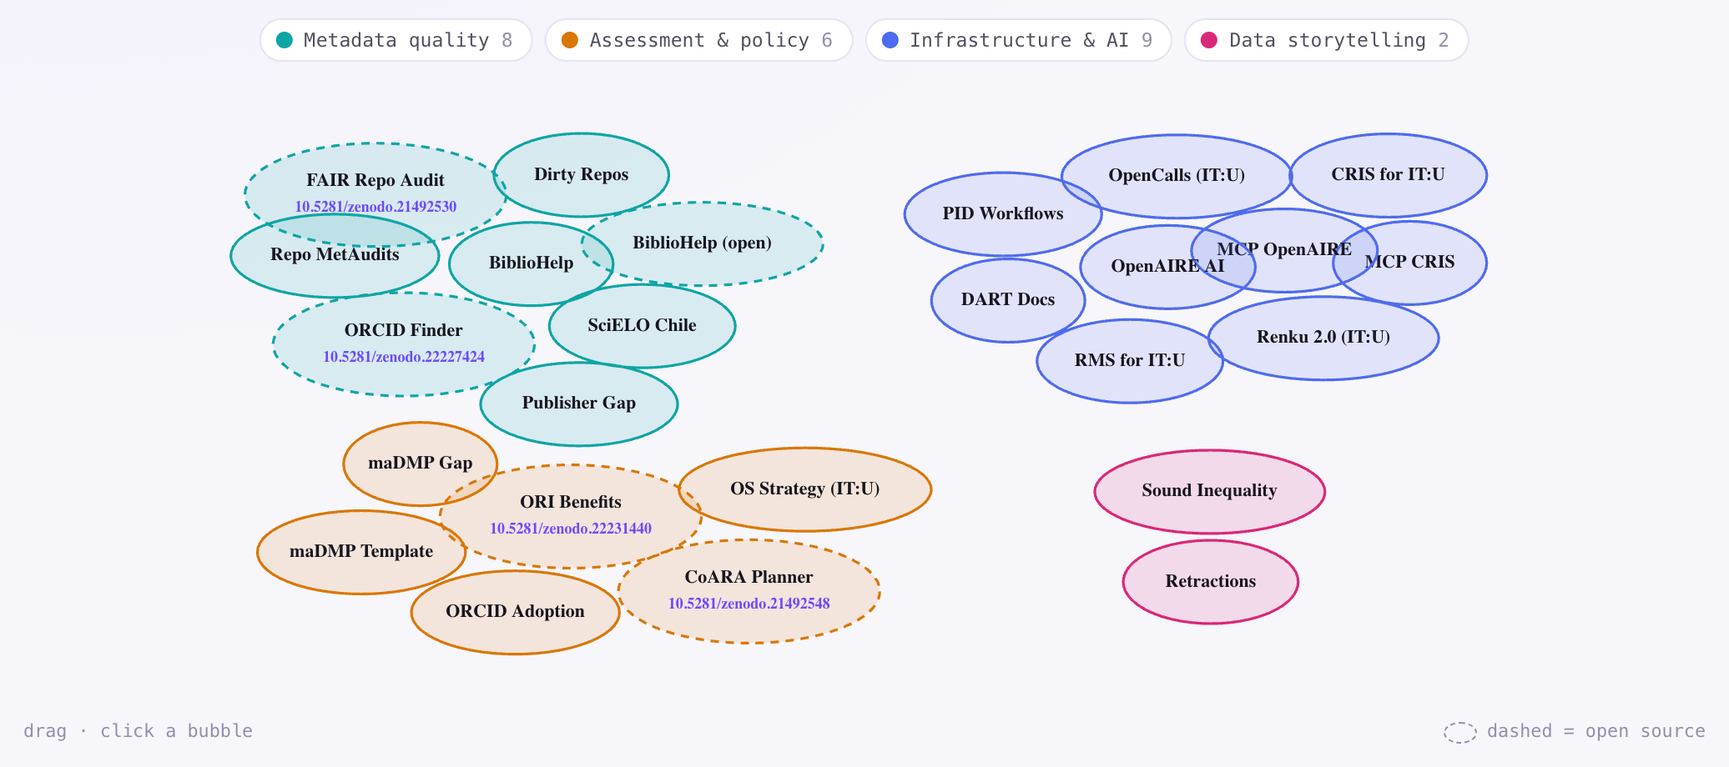
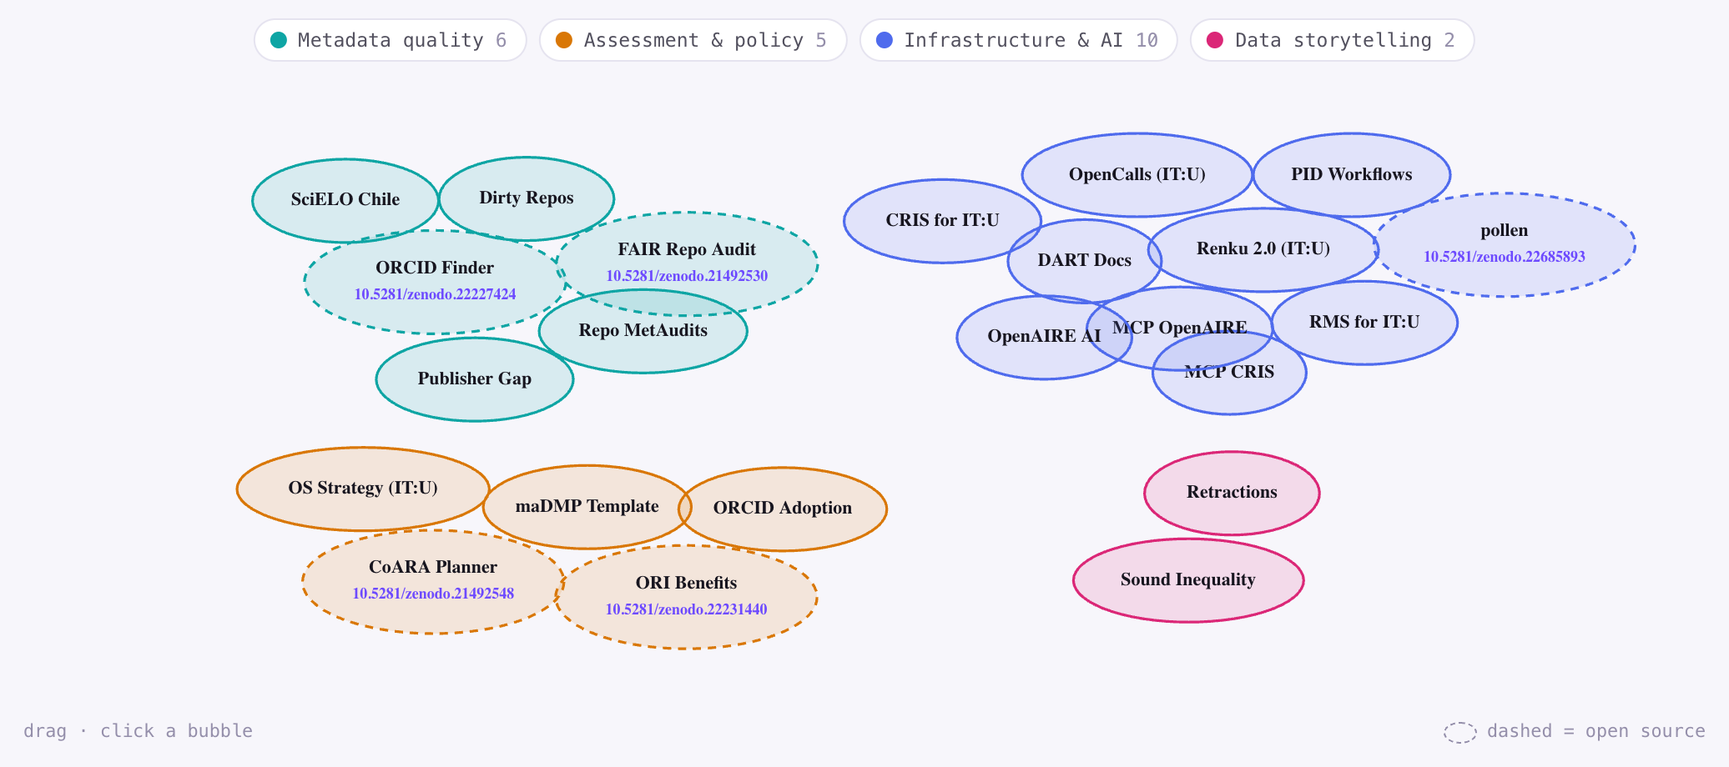
Hub: CV blocks before the tools, publications split by peer review
The hub opened on the tool cloud and left the CV in one tab strip called
"The rest of the story". It now opens on two blocks: "Publications & talks"
(publications, writing, talks) and "Background" (education, experience,
engagements, training), with "Tools & experiments" below them.

Publications on the hub show two groups, peer-reviewed and not. The second
runs by year and each row names its category, so nothing the finer groups
said is lost; the CV page and CV.*.md keep the finer groups.

"Working papers" is retired. Its six entries were checked against DataCite
and Crossref: the two Authorea records are preprints, the InES survey is a
dataset, and the three Zenodo records (a diagram, an interactive resource,
a self-declared article) go under "other". A test now fails if any
publication category is missing from one of the three consumers, since
such entries would otherwise drop out of the CV in silence.

README screenshots regenerated. The cloud image was already stale: it still
showed BiblioHelp and maDMP Gap, both removed earlier.

diff --git a/index.html b/index.html
@@ -240,6 +240,20 @@
     </div>
   </section>
 
+  <!-- Two tabbed blocks from the same TAB_GROUPS table: what he has put out, then the
+       path behind it. They come before the tools, which are the part a visitor browses. -->
+  <section>
+    <div class="shead"><h2 data-t="grp_out_h"></h2></div>
+    <div class="tabs" id="tabbar_out" role="tablist"></div>
+    <div class="tabpanel" id="tabpanel_out" role="tabpanel" tabindex="0"></div>
+  </section>
+
+  <section>
+    <div class="shead"><h2 data-t="grp_path_h"></h2></div>
+    <div class="tabs" id="tabbar_path" role="tablist"></div>
+    <div class="tabpanel" id="tabpanel_path" role="tabpanel" tabindex="0"></div>
+  </section>
+
   <section>
     <div class="shead">
       <h2 data-t="apps_h"></h2><span class="count" id="apps_c"></span>
@@ -262,11 +276,6 @@
     <div class="listwrap" id="listwrap"></div>
   </section>
 
-  <section>
-    <div class="shead"><h2 id="more_h"></h2></div>
-    <div class="tabs" id="tabbar" role="tablist"></div>
-    <div class="tabpanel" id="tabpanel" role="tabpanel" tabindex="0"></div>
-  </section>
 </div></main>
 
 <footer><div class="wrap">
@@ -278,7 +287,6 @@
 
 <script>
 let DATA, EXTRA, PERSONAL;
-const MORE_H={en:"The rest of the story", de:"Der Rest der Geschichte", es:"El resto de la historia"};
 const TABMETA={
   writing:{en:"Writing",de:"Publizistik",es:"Escritos"},
   publications:{en:"Publications",de:"Publikationen",es:"Publicaciones"},
@@ -288,17 +296,27 @@ const TABMETA={
   engagements:{en:"Engagements",de:"Engagements",es:"Redes"},
   training:{en:"Training",de:"Weiterbildung",es:"Formación continua"},
 };
+/* The hub splits publications in two: peer-reviewed, and everything else in one list by
+   year, each row naming its own category (cv.json keeps the finer categories, and the
+   CV page shows them). */
 const PUBGRP={
   peerReviewed:{en:"Peer-reviewed",de:"Begutachtet",es:"Revisadas por pares"},
-  policyPapers:{en:"Policy papers",de:"Policy Papers",es:"Documentos de política"},
-  guides:{en:"Guides",de:"Leitfäden",es:"Guías"},
-  datasets:{en:"Datasets",de:"Datensätze",es:"Conjuntos de datos"},
-  workingPapers:{en:"Working papers",de:"Working Papers",es:"Documentos de trabajo"},
+  notPeerReviewed:{en:"Not peer-reviewed",de:"Nicht begutachtet",es:"Sin revisión por pares"},
 };
-/* Order: what he produced, then the trajectory, then what he keeps up. The first entry
-   is also the tab that opens, so it is the only one a visitor sees without clicking. */
-const TABS=["publications","talks","writing","experience","education","engagements","training"];
-let activeTab="publications";
+const PUBTYPE={
+  policyPapers:{en:"Policy paper",de:"Policy Paper",es:"Documento de política"},
+  guides:{en:"Guide",de:"Leitfaden",es:"Guía"},
+  datasets:{en:"Dataset",de:"Datensatz",es:"Conjunto de datos"},
+  preprints:{en:"Preprint",de:"Preprint",es:"Preprint"},
+  other:{en:"Other",de:"Sonstiges",es:"Otro"},
+};
+/* Two tabbed blocks: what he has put out, then the path behind it. The first tab of each
+   is the one that opens, so it is the only one a visitor sees without clicking. */
+const TAB_GROUPS={
+  out:["publications","writing","talks"],
+  path:["education","experience","engagements","training"],
+};
+const activeTab={out:"publications",path:"education"};
 const TOPICS = {
   metadata:{v:"--t-metadata", en:"Metadata quality", de:"Metadatenqualität", es:"Calidad de metadatos"},
   assessment:{v:"--t-assessment", en:"Assessment & policy", de:"Bewertung & Politik", es:"Evaluación y política"},
@@ -307,14 +325,17 @@ const TOPICS = {
 };
 const UI = {
   en:{cv:"Full CV →", apps_h:"Tools & experiments", apps_lead:"A cloud of live tools, grouped by topic. Drag them around; click one to open it.",
+    grp_out_h:"Publications & talks", grp_path_h:"Background",
     hint:"drag · click a bubble", openmark:"dashed = open source", writ_h:"Writing", writ_lead:"Columns, essays and posts on open knowledge.",
     by:"Built by", lic:"MIT-licensed, open source", src:"Source on GitHub",
     built:"A curated view of the same data behind the CV", open:"Open", nolink:"No public URL", list:"List", cloud:"Cloud"},
   de:{cv:"Vollständiger Lebenslauf →", apps_h:"Werkzeuge & Experimente", apps_lead:"Eine Wolke aktiver Werkzeuge, nach Thema gruppiert. Ziehen; zum Öffnen klicken.",
+    grp_out_h:"Publikationen & Vorträge", grp_path_h:"Werdegang",
     hint:"ziehen · Blase anklicken", openmark:"gestrichelt = quelloffen", writ_h:"Publizistik", writ_lead:"Kolumnen, Essays und Beiträge zu offenem Wissen.",
     by:"Erstellt von", lic:"MIT-Lizenz, quelloffen", src:"Quellcode auf GitHub",
     built:"Eine kuratierte Ansicht derselben CV-Daten", open:"Öffnen", nolink:"Keine öffentliche URL", list:"Liste", cloud:"Wolke"},
   es:{cv:"CV completo →", apps_h:"Herramientas y experimentos", apps_lead:"Una nube de herramientas vivas, agrupadas por tópico. Arrástralas; haz clic para abrir.",
+    grp_out_h:"Publicaciones y charlas", grp_path_h:"Trayectoria",
     hint:"arrastra · haz clic en una burbuja", openmark:"discontinuo = código abierto", writ_h:"Escritos", writ_lead:"Columnas, ensayos y publicaciones sobre conocimiento abierto.",
     by:"Hecho por", lic:"Licencia MIT, código abierto", src:"Código en GitHub",
     built:"Una vista curada de los mismos datos del CV", open:"Abrir", nolink:"Sin URL pública", list:"Lista", cloud:"Nube"},
@@ -512,11 +533,14 @@ function rowsWriting(){return DATA.writing.map(e=>`
     <span class="pmain"><span class="ptype">${esc(e.type||"Writing")}</span>
       <div class="ptitle">${titleLink(e.title,e.url)}</div><div class="pmeta">${esc(blurb(e))}</div></span>
     ${linkChip(e.url)}</div>`).join("");}
-function rowsPubs(){return ["peerReviewed","policyPapers","guides","datasets","workingPapers"].map(g=>{
-  const items=EXTRA.publications[g]||[];if(!items.length)return"";
+function rowsPubs(){const P=EXTRA.publications;
+  const rest=Object.keys(PUBTYPE).flatMap(k=>(P[k]||[]).map(p=>({...p,kind:k})))
+    .sort((a,b)=>(+b.year||0)-(+a.year||0));
+  return [["peerReviewed",P.peerReviewed||[]],["notPeerReviewed",rest]].map(([g,items])=>{if(!items.length)return"";
   return `<div class="pgrp">${esc(PUBGRP[g][lang])} · ${items.length}</div>`+items.map(p=>`
     <div class="prow"><span class="pyear">${esc(p.year||"")}</span>
-      <span class="pmain"><div class="ptitle">${titleLink(p.title,p.url)}</div>
+      <span class="pmain">${p.kind?`<span class="ptype">${esc(PUBTYPE[p.kind][lang])}</span>`:""}
+      <div class="ptitle">${titleLink(p.title,p.url)}</div>
       <div class="pmeta">${esc(p.authors||"")}${p.venue?' · <b>'+esc(p.venue)+'</b>':''}</div></span>
       ${linkChip(p.url)}</div>`).join("");
   }).join("");}
@@ -542,11 +566,12 @@ function rowsTrain(){return EXTRA.training.map(e=>`
     <span class="pmain"><div class="ptitle">${esc(e.title)}</div>
     <div class="pmeta">${e.org?'<b>'+esc(e.org)+'</b> · ':''}${esc(deLbl(e.desc))}</div></span></div>`).join("");}
 const PANEL={writing:rowsWriting,publications:rowsPubs,talks:rowsTalks,experience:rowsExp,education:rowsEdu,engagements:rowsEng,training:rowsTrain};
-function renderTabbar(){document.getElementById("tabbar").innerHTML=TABS.map(k=>`
-  <button class="tab" role="tab" data-tab="${k}" aria-selected="${activeTab===k}">${esc(TABMETA[k][lang])}<span class="n">${pcount(k)}</span></button>`).join("");
-  document.querySelectorAll(".tab").forEach(b=>b.onclick=()=>{activeTab=b.dataset.tab;renderTabbar();renderPanel();
-    const tp=document.getElementById("tabpanel");tp.scrollTop=0;});}
-function renderPanel(){document.getElementById("tabpanel").innerHTML=(PANEL[activeTab]||rowsWriting)();}
+function renderTabbar(g){const bar=document.getElementById("tabbar_"+g);
+  bar.innerHTML=TAB_GROUPS[g].map(k=>`
+  <button class="tab" role="tab" data-tab="${k}" aria-selected="${activeTab[g]===k}">${esc(TABMETA[k][lang])}<span class="n">${pcount(k)}</span></button>`).join("");
+  bar.querySelectorAll(".tab").forEach(b=>b.onclick=()=>{activeTab[g]=b.dataset.tab;renderTabbar(g);renderPanel(g);
+    document.getElementById("tabpanel_"+g).scrollTop=0;});}
+function renderPanel(g){document.getElementById("tabpanel_"+g).innerHTML=PANEL[activeTab[g]]();}
 
 /* ---------- render all ---------- */
 function render(){const t=UI[lang];
@@ -559,10 +584,9 @@ function render(){const t=UI[lang];
     if(PERSONAL.substack)sc.href=PERSONAL.substack;}
   document.documentElement.lang=lang;
   document.getElementById("apps_c").textContent=DATA.apps.length;
-  document.getElementById("more_h").textContent=MORE_H[lang];
   renderLegend();renderList();
   if(selected)select(selected);
-  renderTabbar();renderPanel();}
+  for(const g in TAB_GROUPS){renderTabbar(g);renderPanel(g);}}
 
 /* ---------- controls ---------- */
 document.querySelectorAll(".seg button").forEach(b=>b.onclick=()=>{lang=b.dataset.lang;

diff --git a/cv.html b/cv.html
@@ -161,7 +161,8 @@ const UI = {
 const PUBGRP={peerReviewed:{en:"Peer-reviewed",de:"Begutachtet",es:"Revisadas por pares"},
   policyPapers:{en:"Policy papers",de:"Policy Papers",es:"Documentos de política"},
   guides:{en:"Guides",de:"Leitfäden",es:"Guías"},datasets:{en:"Datasets",de:"Datensätze",es:"Conjuntos de datos"},
-  workingPapers:{en:"Working papers",de:"Working Papers",es:"Documentos de trabajo"}};
+  preprints:{en:"Preprints",de:"Preprints",es:"Preprints"},
+  other:{en:"Other outputs",de:"Weitere Veröffentlichungen",es:"Otras publicaciones"}};
 
 let lang="en";
 const esc=s=>(s||"").replace(/[&<>"]/g,m=>({"&":"&amp;","<":"&lt;",">":"&gt;",'"':"&quot;"}[m]));
@@ -212,7 +213,7 @@ function render(){
     <span class="when">${esc(e.year)}</span></div>`));
 
   // Publications: each group's subheading is kept with its first entry too
-  const groups=["peerReviewed","policyPapers","guides","datasets","workingPapers"].filter(g=>(CV.publications[g]||[]).length);
+  const groups=["peerReviewed","policyPapers","guides","datasets","preprints","other"].filter(g=>(CV.publications[g]||[]).length);
   const pubN=groups.reduce((n,g)=>n+CV.publications[g].length,0);
   H.push(`<section>`+groups.map((g,i)=>keep((i?"":h2("publications",pubN))+`<div class="subh">${esc(PUBGRP[g][lang])}</div>`,
     CV.publications[g].map(it=>{const ti=it.url?`<a href="${esc(it.url)}">${esc(it.title)}</a>`:esc(it.title);

diff --git a/build_cv.py b/build_cv.py
@@ -25,7 +25,8 @@ PUBGRP = {"peerReviewed":{"en":"Peer-reviewed","de":"Begutachtet","es":"Revisada
   "policyPapers":{"en":"Policy papers","de":"Policy Papers","es":"Documentos de política"},
   "guides":{"en":"Guides","de":"Leitfäden","es":"Guías"},
   "datasets":{"en":"Datasets","de":"Datensätze","es":"Conjuntos de datos"},
-  "workingPapers":{"en":"Working papers","de":"Working Papers","es":"Documentos de trabajo"}}
+  "preprints":{"en":"Preprints","de":"Preprints","es":"Preprints"},
+  "other":{"en":"Other outputs","de":"Weitere Veröffentlichungen","es":"Otras publicaciones"}}
 
 def build(lang):
     T = LABELS[lang]

diff --git a/README.md b/README.md
@@ -13,19 +13,20 @@ from this origin.
 Available in **English, German and Spanish** (auto-detected, switchable): interface and
 content both, including every long description.
 
-![The tool cloud: 25 ovals grouped into four colour-coded topics, Metadata quality 8,
-Assessment & policy 6, Infrastructure & AI 9, Data storytelling 2. Related projects touch
-rather than repel, so BiblioHelp sits against BiblioHelp (open) and Repo MetAudits against
-FAIR Repo Audit. A dashed outline marks an open GitHub twin, and a note in the corner says
-so. Four ovals carry a Zenodo concept DOI under the name: FAIR Repo Audit
-10.5281/zenodo.21492530, ORCID Finder 10.5281/zenodo.22227424, ORI Benefits
-10.5281/zenodo.22231440 and CoARA Planner 10.5281/zenodo.21492548.](docs/hub-cloud.png)
+![The tool cloud: 23 ovals grouped into four colour-coded topics, Metadata quality 6,
+Assessment & policy 5, Infrastructure & AI 10, Data storytelling 2. Related projects touch
+rather than repel, so Repo MetAudits sits against FAIR Repo Audit. A dashed outline marks an
+open GitHub twin, and a note in the corner says so. Five ovals carry a Zenodo concept DOI
+under the name: FAIR Repo Audit 10.5281/zenodo.21492530, ORCID Finder
+10.5281/zenodo.22227424, CoARA Planner 10.5281/zenodo.21492548, ORI Benefits
+10.5281/zenodo.22231440 and pollen 10.5281/zenodo.22685893.](docs/hub-cloud.png)
 
 ## The three views
 
-- **The hub** (`index.html`): the 25 tools and experiments as a cloud of ovals grouped
-  by topic (drag, filter, click to open the live app), plus a tabbed section for the rest
-  of the CV: writing, publications, talks, experience, education, engagements, training.
+- **The hub** (`index.html`): the 23 tools and experiments as a cloud of ovals grouped
+  by topic (drag, filter, click to open the live app), below two tabbed blocks for the rest
+  of the CV: publications, writing and talks first, then education, experience, engagements
+  and training.
 ![The peer-reviewed list, 23 entries. The link sits on the title, never on the whole row, so
 the year and the author line stay unstyled. The chip on the right names what the link
 actually resolves to: "DOI" only for a real doi.org address, otherwise the bare host. The
@@ -78,7 +79,9 @@ and must be one of `metadata`, `assessment`, `infra`, `story`.
 ```
 
 **A new publication:** add to the right group under `publications`
-(`peerReviewed`, `policyPapers`, `guides`, `datasets`, `workingPapers`):
+(`peerReviewed`, `policyPapers`, `guides`, `datasets`, `preprints`, `other`). The CV page
+shows all six; the hub shows two, peer-reviewed and not, and names the category on each row
+of the second:
 
 ```json
 { "authors": "Hartley Belmar, R.", "year": "2026", "title": "Paper title",

diff --git a/CV.de.md b/CV.de.md
@@ -132,15 +132,18 @@ Fachkraft zur Unterstützung der Akkreditierung von Postgraduiertenprogrammen im
 - Abedrapo Rosen, I., Martínez Concha, K. Y., & Hartley Belmar, R. (2025). [Repositorios InES Chile 2021–2022 [Dataset]](https://doi.org/10.5281/zenodo.15122025). *Zenodo*.
 - Hartley, R., & Abedrapo Rosen, I. (2024). [Chilean Repositories and Universities 2023 [Dataset]](https://doi.org/10.5281/zenodo.10557244). *Zenodo*.
 - Hartley, R., & Abedrapo Rosen, I. (2024). [Template of the Research Data Management Plan of the Universidad Central de Chile](https://doi.org/10.5281/zenodo.10067319). *Zenodo*.
+- Hartley, R. (2022). [Encuesta InES Ciencia Abierta UCen](https://doi.org/10.53962/g169-xhey). *ResearchEquals*.
 
-### Working Papers
+### Preprints
+
+- Hartley, R., Priego, E., Tobar, D., Pérez Comisso, M., & Gainza, C. (2017). [¿Abrir o no abrir? Nuevos pasos del Movimiento Open en Chile](https://doi.org/10.22541/au.151379546.63292744). *Authorea*.
+- Priego, E., Posada, A., Hartley, R., Rodríguez Ortega, N., Fiormonte, D., Gil, A., Logan, C., Alperin, J. P., Mounce, R., Eglen, S. J., Miranda Trigueros, E., Lawson, S., Gatto, L., Ramos, A., & Pérez, N. (2017). [Scholarly Publishing, Freedom of Information and Academic Self-Determination: The UNAM-Elsevier Case](https://doi.org/10.22541/au.151160332.22737207). *Authorea*.
+
+### Weitere Veröffentlichungen
 
 - Hartley Belmar, R., & Atenas, J. (2024). [Estructuras a considerar y coordinar para una gobernanza ética de datos de investigación](https://doi.org/10.5281/zenodo.13754250). *Zenodo*.
 - Atenas, J., Hartley, R., & Quiroz, S. (2023). [Ethics as a research method](https://doi.org/10.5281/zenodo.8006751). *Zenodo*.
 - Hartley, R., & Abedrapo Rosen, I. (2023). [Centralizing the ways in which science is classified](https://doi.org/10.5281/zenodo.8092607). *Zenodo*.
-- Hartley, R. (2022). [Encuesta InES Ciencia Abierta UCen](https://doi.org/10.53962/g169-xhey). *ResearchEquals*.
-- Hartley, R., Priego, E., Tobar, D., Pérez Comisso, M., & Gainza, C. (2017). [¿Abrir o no abrir? Nuevos pasos del Movimiento Open en Chile](https://doi.org/10.22541/au.151379546.63292744). *Authorea (preprint)*.
-- Priego, E., Posada, A., Hartley, R., Rodríguez Ortega, N., Fiormonte, D., Gil, A., Logan, C., Alperin, J. P., Mounce, R., Eglen, S. J., Miranda Trigueros, E., Lawson, S., Gatto, L., Ramos, A., & Pérez, N. (2017). [Scholarly Publishing, Freedom of Information and Academic Self-Determination: The UNAM-Elsevier Case](https://doi.org/10.22541/au.151160332.22737207). *Authorea (preprint)*.
 
 
 ## Vorträge & Präsentationen

diff --git a/CV.es.md b/CV.es.md
@@ -132,15 +132,18 @@ Profesional de apoyo para la acreditación de programas de postgrado, en la Vice
 - Abedrapo Rosen, I., Martínez Concha, K. Y., & Hartley Belmar, R. (2025). [Repositorios InES Chile 2021–2022 [Dataset]](https://doi.org/10.5281/zenodo.15122025). *Zenodo*.
 - Hartley, R., & Abedrapo Rosen, I. (2024). [Chilean Repositories and Universities 2023 [Dataset]](https://doi.org/10.5281/zenodo.10557244). *Zenodo*.
 - Hartley, R., & Abedrapo Rosen, I. (2024). [Template of the Research Data Management Plan of the Universidad Central de Chile](https://doi.org/10.5281/zenodo.10067319). *Zenodo*.
+- Hartley, R. (2022). [Encuesta InES Ciencia Abierta UCen](https://doi.org/10.53962/g169-xhey). *ResearchEquals*.
 
-### Documentos de trabajo
+### Preprints
+
+- Hartley, R., Priego, E., Tobar, D., Pérez Comisso, M., & Gainza, C. (2017). [¿Abrir o no abrir? Nuevos pasos del Movimiento Open en Chile](https://doi.org/10.22541/au.151379546.63292744). *Authorea*.
+- Priego, E., Posada, A., Hartley, R., Rodríguez Ortega, N., Fiormonte, D., Gil, A., Logan, C., Alperin, J. P., Mounce, R., Eglen, S. J., Miranda Trigueros, E., Lawson, S., Gatto, L., Ramos, A., & Pérez, N. (2017). [Scholarly Publishing, Freedom of Information and Academic Self-Determination: The UNAM-Elsevier Case](https://doi.org/10.22541/au.151160332.22737207). *Authorea*.
+
+### Otras publicaciones
 
 - Hartley Belmar, R., & Atenas, J. (2024). [Estructuras a considerar y coordinar para una gobernanza ética de datos de investigación](https://doi.org/10.5281/zenodo.13754250). *Zenodo*.
 - Atenas, J., Hartley, R., & Quiroz, S. (2023). [Ethics as a research method](https://doi.org/10.5281/zenodo.8006751). *Zenodo*.
 - Hartley, R., & Abedrapo Rosen, I. (2023). [Centralizing the ways in which science is classified](https://doi.org/10.5281/zenodo.8092607). *Zenodo*.
-- Hartley, R. (2022). [Encuesta InES Ciencia Abierta UCen](https://doi.org/10.53962/g169-xhey). *ResearchEquals*.
-- Hartley, R., Priego, E., Tobar, D., Pérez Comisso, M., & Gainza, C. (2017). [¿Abrir o no abrir? Nuevos pasos del Movimiento Open en Chile](https://doi.org/10.22541/au.151379546.63292744). *Authorea (preprint)*.
-- Priego, E., Posada, A., Hartley, R., Rodríguez Ortega, N., Fiormonte, D., Gil, A., Logan, C., Alperin, J. P., Mounce, R., Eglen, S. J., Miranda Trigueros, E., Lawson, S., Gatto, L., Ramos, A., & Pérez, N. (2017). [Scholarly Publishing, Freedom of Information and Academic Self-Determination: The UNAM-Elsevier Case](https://doi.org/10.22541/au.151160332.22737207). *Authorea (preprint)*.
 
 
 ## Charlas y presentaciones

diff --git a/CV.en.md b/CV.en.md
@@ -132,15 +132,18 @@ Support professional for the accreditation of postgraduate programmes, working w
 - Abedrapo Rosen, I., Martínez Concha, K. Y., & Hartley Belmar, R. (2025). [Repositorios InES Chile 2021–2022 [Dataset]](https://doi.org/10.5281/zenodo.15122025). *Zenodo*.
 - Hartley, R., & Abedrapo Rosen, I. (2024). [Chilean Repositories and Universities 2023 [Dataset]](https://doi.org/10.5281/zenodo.10557244). *Zenodo*.
 - Hartley, R., & Abedrapo Rosen, I. (2024). [Template of the Research Data Management Plan of the Universidad Central de Chile](https://doi.org/10.5281/zenodo.10067319). *Zenodo*.
+- Hartley, R. (2022). [Encuesta InES Ciencia Abierta UCen](https://doi.org/10.53962/g169-xhey). *ResearchEquals*.
 
-### Working papers
+### Preprints
+
+- Hartley, R., Priego, E., Tobar, D., Pérez Comisso, M., & Gainza, C. (2017). [¿Abrir o no abrir? Nuevos pasos del Movimiento Open en Chile](https://doi.org/10.22541/au.151379546.63292744). *Authorea*.
+- Priego, E., Posada, A., Hartley, R., Rodríguez Ortega, N., Fiormonte, D., Gil, A., Logan, C., Alperin, J. P., Mounce, R., Eglen, S. J., Miranda Trigueros, E., Lawson, S., Gatto, L., Ramos, A., & Pérez, N. (2017). [Scholarly Publishing, Freedom of Information and Academic Self-Determination: The UNAM-Elsevier Case](https://doi.org/10.22541/au.151160332.22737207). *Authorea*.
+
+### Other outputs
 
 - Hartley Belmar, R., & Atenas, J. (2024). [Estructuras a considerar y coordinar para una gobernanza ética de datos de investigación](https://doi.org/10.5281/zenodo.13754250). *Zenodo*.
 - Atenas, J., Hartley, R., & Quiroz, S. (2023). [Ethics as a research method](https://doi.org/10.5281/zenodo.8006751). *Zenodo*.
 - Hartley, R., & Abedrapo Rosen, I. (2023). [Centralizing the ways in which science is classified](https://doi.org/10.5281/zenodo.8092607). *Zenodo*.
-- Hartley, R. (2022). [Encuesta InES Ciencia Abierta UCen](https://doi.org/10.53962/g169-xhey). *ResearchEquals*.
-- Hartley, R., Priego, E., Tobar, D., Pérez Comisso, M., & Gainza, C. (2017). [¿Abrir o no abrir? Nuevos pasos del Movimiento Open en Chile](https://doi.org/10.22541/au.151379546.63292744). *Authorea (preprint)*.
-- Priego, E., Posada, A., Hartley, R., Rodríguez Ortega, N., Fiormonte, D., Gil, A., Logan, C., Alperin, J. P., Mounce, R., Eglen, S. J., Miranda Trigueros, E., Lawson, S., Gatto, L., Ramos, A., & Pérez, N. (2017). [Scholarly Publishing, Freedom of Information and Academic Self-Determination: The UNAM-Elsevier Case](https://doi.org/10.22541/au.151160332.22737207). *Authorea (preprint)*.
 
 
 ## Talks & presentations

diff --git a/CLAUDE.md b/CLAUDE.md
@@ -9,7 +9,10 @@ vanilla JS. Part of the violet-family design system (see `../CLAUDE.md`).
 `data/cv.json` is the only place CV content lives. Three consumers read it:
 
 - `index.html`: the hub. `fetch('./data/cv.json')` → derives `DATA` (apps = `experiments`,
-  writing = `portfolio`) and `EXTRA` (the tab categories), then renders the cloud + tabs.
+  writing = `portfolio`) and `EXTRA` (the tab categories), then renders the tabs + cloud.
+  The seven tabs sit in two blocks, set by `TAB_GROUPS`: publications, writing, talks
+  ("Publications & talks"), then education, experience, engagements, training
+  ("Background"). Both come before the tool cloud, by the author's decision of 2026-09-18.
   Topic assignment for the cloud is the `topic` field on each experiment, and **it is data**,
   edit it there, not in code. Topic *labels/colours* are config (the `TOPICS` object in
   `index.html`). The text inside an oval is config too: the `SHORT` table maps a title to a
@@ -118,7 +121,7 @@ GitHub Release is required and no `CITATION.cff` belongs in this repo.
 README images come from `docs/screenshots.mjs`, which drives the real pages, never a
 hand-cropped grab, which cannot be regenerated and ages into a lie. It seeds `Math.random`
 and emulates `prefers-reduced-motion` so the cloud's physics settle identically each run;
-without that, every regeneration reshuffles the ovals (25 of them) and the diff is noise. Puppeteer is a
+without that, every regeneration reshuffles the ovals (23 of them) and the diff is noise. Puppeteer is a
 tooling-only dependency and the site keeps no `package.json`.
 
 ## Before going/staying public: the leak sweep

diff --git a/CHANGELOG.md b/CHANGELOG.md
@@ -14,6 +14,19 @@ ships in numbered drops.
 
 ### Changed
 
+- **The hub opens on the CV, with the tools below.** "The rest of the story" is split into
+  two tabbed blocks, "Publications & talks" (publications, writing, talks) and "Background"
+  (education, experience, engagements, training), and both now come before "Tools &
+  experiments". README screenshots regenerated; the cloud image had still shown BiblioHelp
+  and maDMP Gap, both removed earlier.
+- **Publications on the hub split in two: peer-reviewed and not.** The second list runs by
+  year and names each row's category (policy paper, guide, dataset, preprint, other). The CV
+  page keeps the finer categories.
+- **"Working papers" is gone as a category.** Its six entries were checked against DataCite
+  and Crossref and filed by what they are: the two Authorea records under a new `preprints`
+  group, the InES survey under `datasets`, and the three Zenodo records (a diagram, an
+  interactive resource and a self-declared article) under a new `other` group. A test now
+  fails if a publication category is missing from any of the three consumers.
 - **Figures on the MetAudits tools match the live dashboards again** (checked 2026-09-14).
   Persistence of Retracted Knowledge: 46.9% of citations after retraction, no significant decay
   over 10 years (was 56% and 15 years). ORCID Adoption: 95 institutions and 212,651 profiles,
